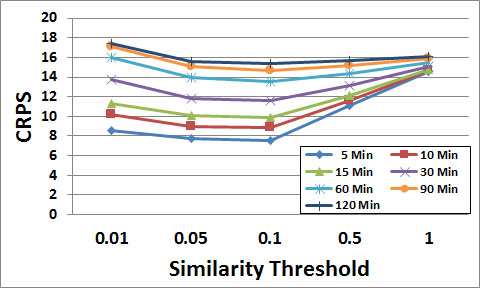
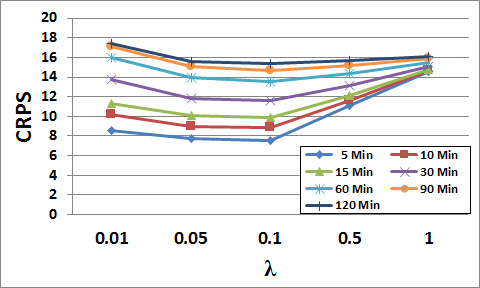
Updated slided. (not-complete)

diff --git a/Presentation/GIS2015_Slides.tex b/Presentation/GIS2015_Slides.tex
@@ -521,12 +521,21 @@ CRPS(f^t, v^t) = \int_{-\infty}^{+\infty} \int_{-\infty}^{x} f^t(y) dy - I(x
 	\column{0.5\textwidth}
 		\includegraphics[scale=0.3]{Links_Historic_TOD.jpg}
 \end{columns}
+\begin{itemize}
+\item Discrete Vs. Continuous \emph{pltts} have almost the same outcome. \textcolor{blue}{We will only consider discrete \emph{pltts} from this point forward.}
+\item Uncertainty during rush hours is higher.
+\end{itemize}
 \end{frame}
 
 \begin{frame}\frametitle{Similar Historic}
 \begin{center}
-	\includegraphics[scale=0.5]{Links_Filtered.jpg}
+	\includegraphics[scale=0.45]{Links_Filtered.jpg}
 \end{center}
+\begin{itemize}
+\item Small values of $\lambda$ over-fit the model $\implies$ \textcolor{red}{bad predictions}.
+\item Large values of $\lambda$ result in dissimilar training data $\implies$ \textcolor{red}{bad predictions}.
+\item We choose \textcolor{mygreen}{0.1} as the optimal value for $\lambda$.
+\end{itemize}
 \end{frame}
 
 \begin{frame}\frametitle{Linear Interpolation}
@@ -537,6 +546,9 @@ CRPS(f^t, v^t) = \int_{-\infty}^{+\infty} \int_{-\infty}^{x} f^t(y) dy - I(x
 	\column{0.5\textwidth}
 		\includegraphics[scale=0.3]{Links_Interpolated_Theta.jpg}
 \end{columns}
+\begin{itemize}
+\item 
+\end{itemize}
 \end{frame}
 
 \begin{frame}\frametitle{Best Parameters}
